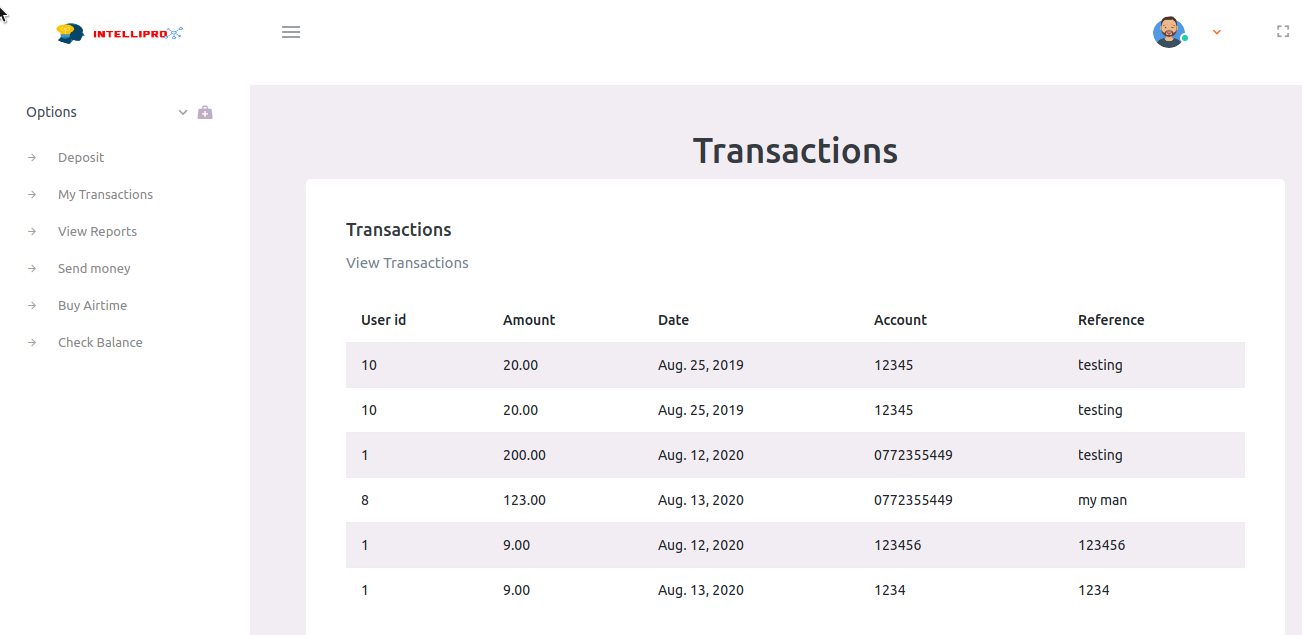
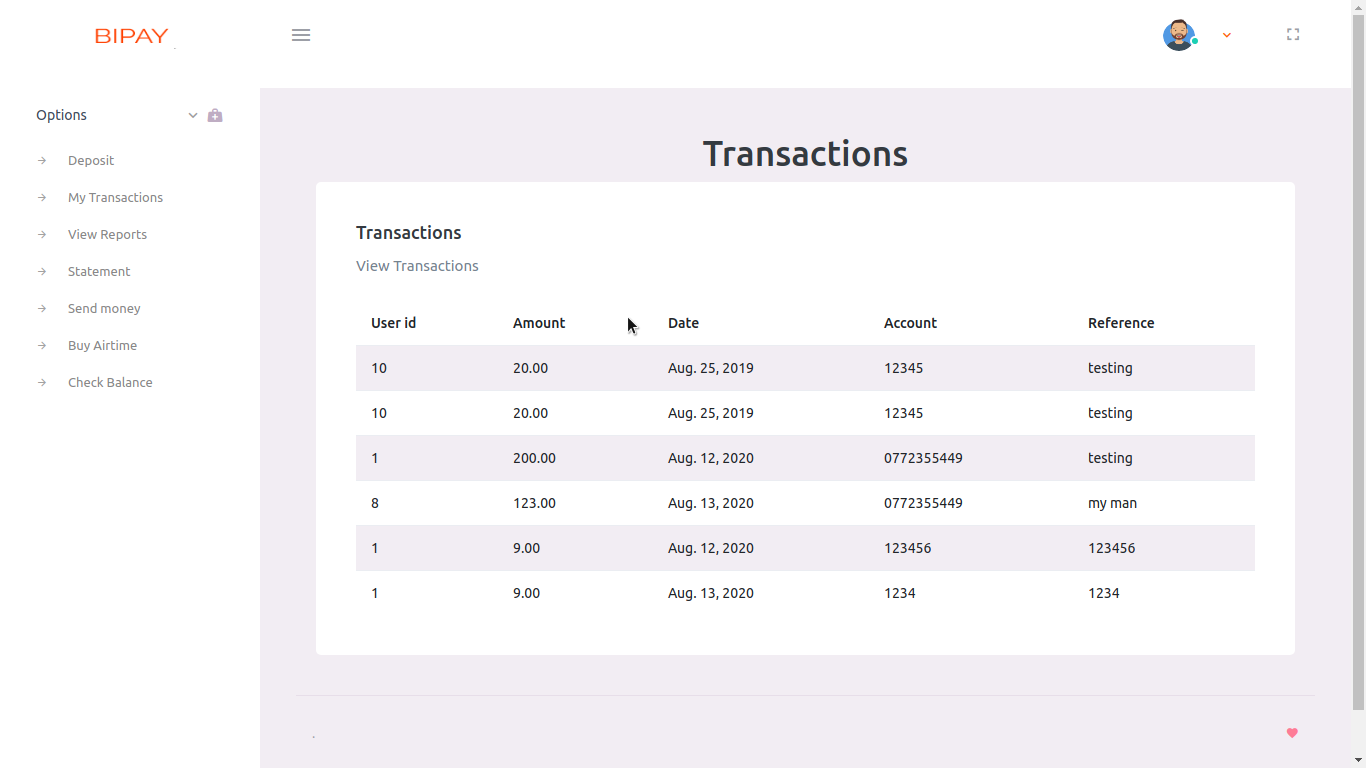
added screenshots

diff --git a/templates/base.html b/templates/base.html
@@ -37,7 +37,7 @@ from django.contrib.auth.decorators import login_required
       <!-- partial:partials/_navbar.html -->
       <nav class="navbar default-layout-navbar col-lg-12 col-12 p-0 fixed-top d-flex flex-row">
         <div class="text-center navbar-brand-wrapper d-flex align-items-center justify-content-center">
-          <a class="navbar-brand brand-logo" href=""><img src="{% static "landing/images/logo1.png" %}" alt="logo" class="img-fluid"></a>
+          <a class="navbar-brand brand-logo" href=""><img src="{% static "landing/images/logo.png" %}" alt="logo" class="img-fluid"></a>
           <a class="navbar-brand brand-logo-mini" href="index.html"><img src="{% static "admin/assets/images/logo-mini.svg" %}" alt="logo" /></a>
         </div>
         <div class="navbar-menu-wrapper d-flex align-items-stretch">
@@ -97,8 +97,9 @@ from django.contrib.auth.decorators import login_required
                   <li class="nav-item"> <a class="nav-link" href="/message/">Deposit</a></li>
                   <li class="nav-item"> <a class="nav-link" href="/transaction/view/">My Transactions</a></li>
                   <li class="nav-item"> <a class="nav-link" href="#">View Reports</a></li>
+                  <li class="nav-item"> <a class="nav-link" href="/transaction/statement/">Statement</a></li>
                   <li class="nav-item"> <a class="nav-link" href="/transaction/create/">Send money</a></li>
-                  <li class="nav-item"> <a class="nav-link" href="#">Buy Airtime</a></li>
+                  <li class="nav-item"> <a class="nav-link" href="/transaction/airtime/">Buy Airtime</a></li>
                   <li class="nav-item"> <a class="nav-link" href="/account/balance/">Check Balance</a></li>
                 </ul>
               </div>

diff --git a/templates/transactions/statement.html b/templates/transactions/statement.html
@@ -1,0 +1,54 @@
+{% extends 'base.html' %}
+
+{% block content %}
+
+
+<div class="page-header">
+    <h3 class="page-title">
+        <span class="page-title-icon bg-gradient-primary text-white mr-2">
+          <i class="mdi mdi-menu"></i>
+        </span> Listing Statements </h3>
+            <nav aria-label="breadcrumb">
+        	    <ul class="breadcrumb">
+        	      <li class="breadcrumb-item active" aria-current="page">
+        	        <span></span>statement <i class="mdi mdi-alert-circle-outline icon-sm text-primary align-middle"></i>
+    	          </li>
+                </ul>
+              </nav>
+			</div>
+
+    <div class="col-md-12	 grid-margin stretch-card">
+        <div class="card">
+                <div class="card-body">
+                    <h4 class="card-title">date</h4>
+                    <p class="card-description"></p>
+                    <ul class="list-ticked">
+                      <li><b>Operation:</b> Deposit </li>
+                      <li><b>Amount:</b> $20.00 </li>
+                      <li><b>Recipient: </b> 0772355449</li>
+					</ul>
+				</div>
+				
+				
+        </div>
+    </div>
+
+    <div class="col-md-12	 grid-margin stretch-card">
+        <div class="card">
+                <div class="card-body">
+                    <h4 class="card-title">date</h4>
+                    <p class="card-description"></p>
+                    <ul class="list-ticked">
+                      <li><b>Operation:</b> Deposit </li>
+                      <li><b>Amount:</b> $30.00 </li>
+                      <li><b>Recipient: </b> 0782257826</li>
+					</ul>
+				</div>
+			
+				
+        </div>
+    </div>
+
+
+
+{% endblock %}

diff --git a/templates/transactions/airtime.html b/templates/transactions/airtime.html
@@ -1,0 +1,21 @@
+{% extends 'base.html' %}
+{% block content %}
+<h4 align="center">Buy Airtime</h4>
+<div align="center">
+    <form method="POST">{% csrf_token %}
+        <fieldset>
+            {{ form.as_p}}
+            <div class="form-group">
+                <label class='control-label'>&nbsp;</label>
+                <input type="submit" value="Buy" class="btn btn-primary" >
+                <!-- <span class="input-group-addon libspicker" onclick="viewVendor()" 'id'="pickerNo">Save</span> -->
+                </div>
+        
+        </fieldset>
+           
+        </form>
+</div>
+
+
+
+{% endblock %}

diff --git a/templates/transactions/create.html b/templates/transactions/create.html
@@ -1,7 +1,7 @@
 {% extends 'base.html' %}
 
 {% block content %}
-<h1>Transaction</h1>
+<h1>Send Money</h1>
 
 
 

diff --git a/transactions/views.py b/transactions/views.py
@@ -1,12 +1,14 @@
 from django.shortcuts import render
 from django.http import HttpResponse
-from .forms import TransactionForm , TransactionCreate
+from .forms import TransactionForm , TransactionCreate , TransactionAirtime
 from deepface import DeepFace
 import pandas as pd
 import base64
 from django.conf import settings
 from face.facecall import Facecall
 from .models import Transaction
+from urllib.request import urlopen
+from urllib.parse import quote
 
 
 
@@ -15,6 +17,58 @@ def home_view(request , *args ,**kwargs):
     # print(static) 
     return render(request , "home.html" , {})
 
+def airtime_transaction(request):
+    create_form = TransactionAirtime()
+    if request.method == "POST":
+        create_form = TransactionAirtime(request.POST)
+
+        if create_form.is_valid():
+            # print(create_form.cleaned_data['provider'])
+            amount = create_form.cleaned_data['amount']
+            provider = create_form.cleaned_data['provider']
+            number = str(create_form.cleaned_data['recipient'])
+            
+            # BulkSMS Webservice username for sending SMS.
+            # Get it from User Configuration. Its case sensitive.
+
+            username = "Kidkudzy"
+
+            # Webservices token for above Webservice username
+            token = "7e51158d678553beeae996157bb7b087"
+
+            # BulkSMS Webservices URL
+            bulksms_ws = "http://portal.bulksmsweb.com/index.php?app=ws"
+
+            # destination numbers, comma seperated or use #groupcode for sending to group
+            # destinations = "#devteam,263071077072,26370229338"
+            # destinations = "26300123123123,26300456456456"  #for multiple recipients
+
+            destinations = number
+
+            # SMS Message to send
+            message = "You have received $"+str(amount)+" "+provider+" airtime \n from  BIPAY SYSTEM"
+
+            # send via BulkSMS HTTP API
+
+            ws_str = bulksms_ws + "&u=" + username + "&h=" + token + "&op=pv"
+            ws_str = ws_str + "&to=" + quote(destinations) + "&msg=" + quote(message)
+
+
+            http_response = urlopen(ws_str).read()
+
+            print(http_response)
+    context = {
+        'form':create_form
+    }
+
+    return render(request , "transactions/airtime.html" , context)
+
+def statement_transaction(request):
+    # transactions = Transaction.objects.all()
+    context = {
+        # 'transactions':transactions
+    }
+    return render(request , "transactions/statement.html" , context)
 
 def view_transaction(request):
     transactions = Transaction.objects.all()

diff --git a/face/views.py b/face/views.py
@@ -10,11 +10,28 @@ from django.conf import settings
 
 
 
-# Create your views here.
-# @login_required
-# def sign_in(request):
-#     context = {}
-#     return render(request , "face/face.html" , context)
+def face_authenticate(imageBase):  
+        # take image as base64 arg
+        data = imageBase
+
+        facematch =  False
+        imgdata = base64.b64decode(data)
+        filename = "{}temp.jpg".format(settings.MEDIA_ROOT)
+        
+        with open(filename, 'wb') as f:
+            f.write(imgdata)
+            
+        # compare and a
+        df = DeepFace.find(img_path = settings.MEDIA_ROOT+'temp.jpg', db_path = settings.MEDIA_ROOT+'sets')
+
+        if df.shape[0] > 0 :
+            matched  = df.iloc[0].identity
+            
+            facematch = True
+        else:
+            facematch = False
+        
+        return facematch
 def register(request):
 
     context = {}
@@ -49,28 +66,7 @@ def home_face(request):
     context = {}
     return render(request , "face/face.html" , context)
 
-    def face_authenticate(imageBase):  
-
-        data = imageBase
-
-        facematch =  False
-        imgdata = base64.b64decode(data)
-        filename = "{}temp.jpg".format(settings.MEDIA_ROOT)
-        # filename = 'promise.jpg'  # I assume you have a way of picking unique filenames
-        with open(filename, 'wb') as f:
-            f.write(imgdata)
-            
-
-        df = DeepFace.find(img_path = settings.MEDIA_ROOT+'img1.jpg', db_path = settings.MEDIA_ROOT+'sets')
-
-        if df.shape[0] > 0 :
-            matched  = df.iloc[0].identity
-            print(matched)
-            facematch = True
-        else:
-            print("no match")
-        
-        return facematch
+    
 
     
 

diff --git a/bipay/urls.py b/bipay/urls.py
@@ -15,7 +15,7 @@ Including another URLconf
 """
 from django.contrib import admin
 from django.urls import path
-from transactions.views import home_view , create_transaction , view_transaction 
+from transactions.views import home_view , create_transaction , view_transaction , statement_transaction, airtime_transaction
 from face.views import home_face ,  register ,login
 from account.views import balance
 
@@ -28,10 +28,12 @@ urlpatterns = [
     #transactions
     path('transaction/create/', create_transaction),
     path('transaction/view/', view_transaction),
+    path('transaction/statement/', statement_transaction),
+     path('transaction/airtime/', airtime_transaction),
     #admin
     path('admin/', admin.site.urls),
     #account
-    path('account/balance', balance ,name='account'),
+    path('account/balance/', balance ,name='account'),
 
    
     

diff --git a/transactions/forms.py b/transactions/forms.py
@@ -13,6 +13,31 @@ class TransactionForm(forms.ModelForm):
             'reference', 
 
         ]
+
+class TransactionAirtime(forms.Form):
+    CHOICES= (
+            ('Netone', 'Netone'),
+            ('Econet', 'Econet'),
+            ('Telecel', 'Telecel'),
+        )
+    provider = forms.CharField(widget=forms.Select(choices=CHOICES,
+    attrs={
+            "class":"col-md-4 form-control",
+        }
+        ))
+
+
+    recipient = forms.IntegerField(widget= forms.NumberInput(
+        attrs={
+            "class":"col-md-4 form-control",
+            
+        }
+    ))
+    amount = forms.DecimalField(widget= forms.NumberInput(
+        attrs={
+            "class":"col-md-4 form-control"
+        }
+    ))
 class TransactionCreate(forms.Form):
     user_id = forms.IntegerField(widget= forms.NumberInput(
         attrs={
